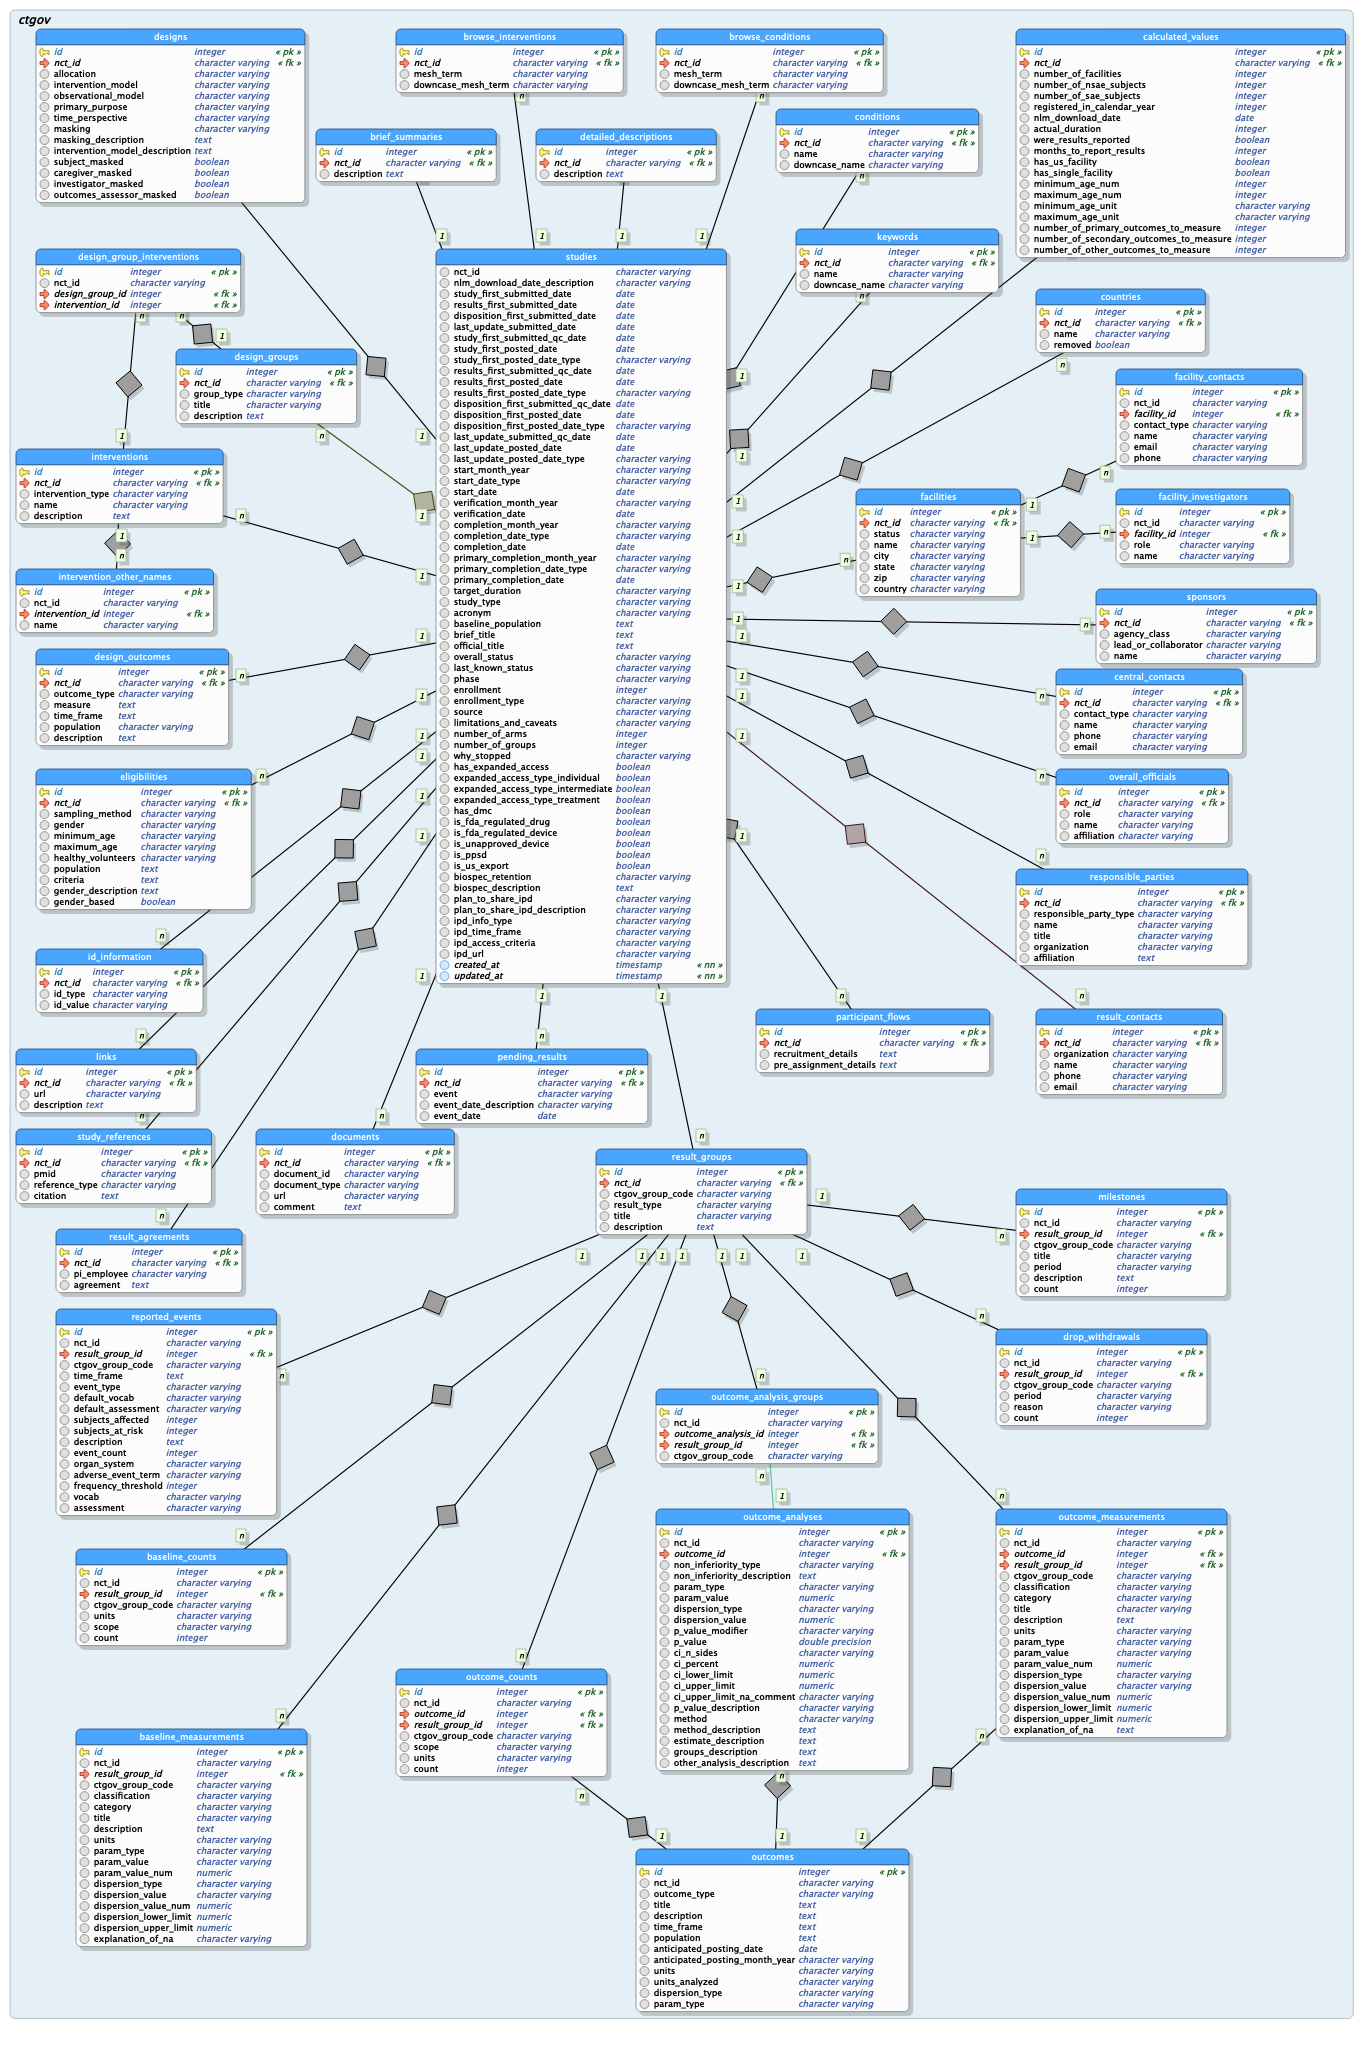
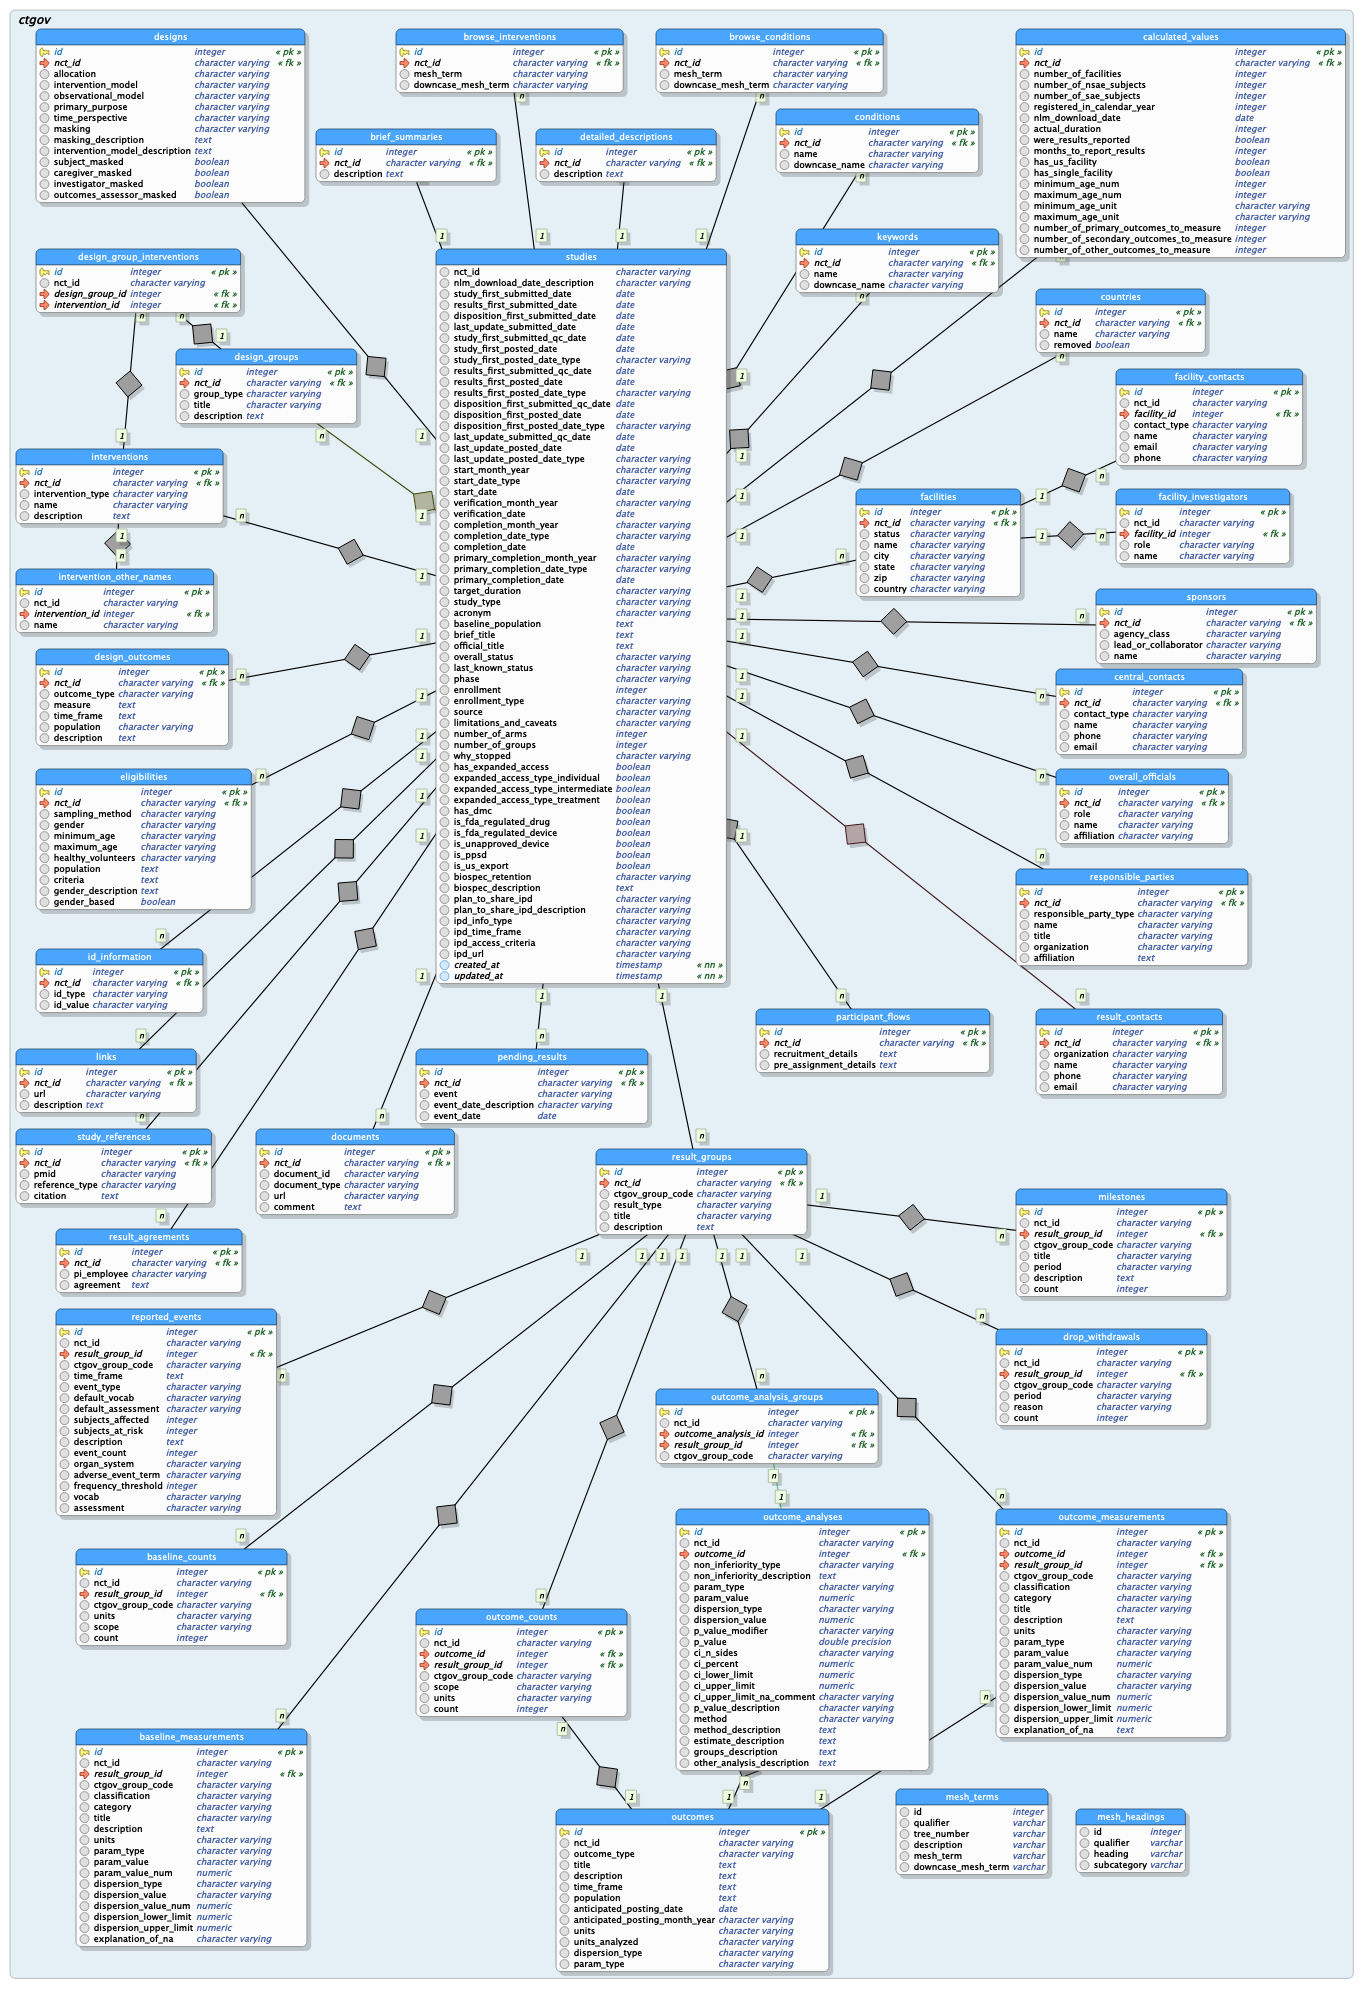
aact-831:  Present Projects Schema Diagrams

diff --git a/app/controllers/pages_controller.rb b/app/controllers/pages_controller.rb
@@ -16,6 +16,7 @@ class PagesController < ApplicationController
     fpm=Util::FilePresentationManager.new
     @support_schema_diagram=fpm.support_schema_diagram
     @admin_schema_diagram=fpm.admin_schema_diagram
+    @proj_schema_diagram=fpm.proj_schema_diagram
     @schema_diagram=fpm.schema_diagram
     @data_dictionary=fpm.data_dictionary
     @table_dictionary=fpm.table_dictionary
@@ -27,6 +28,7 @@ class PagesController < ApplicationController
     @process_flow_diagram=fpm.process_flow_diagram
     @support_schema_diagram=fpm.support_schema_diagram
     @admin_schema_diagram=fpm.admin_schema_diagram
+    @proj_schema_diagram=fpm.proj_schema_diagram
     @schema_diagram=fpm.schema_diagram
     @data_dictionary=fpm.data_dictionary
     @table_dictionary=fpm.table_dictionary
@@ -37,6 +39,7 @@ class PagesController < ApplicationController
     @process_flow_diagram=fpm.process_flow_diagram
     @support_schema_diagram=fpm.support_schema_diagram
     @admin_schema_diagram=fpm.admin_schema_diagram
+    @proj_schema_diagram=fpm.proj_schema_diagram
     @schema_diagram=fpm.schema_diagram
     @data_dictionary=fpm.data_dictionary
     @table_dictionary=fpm.table_dictionary
@@ -46,6 +49,7 @@ class PagesController < ApplicationController
     fpm=Util::FilePresentationManager.new
     @support_schema_diagram=fpm.support_schema_diagram
     @admin_schema_diagram=fpm.admin_schema_diagram
+    @proj_schema_diagram=fpm.proj_schema_diagram
     @schema_diagram=fpm.schema_diagram
     @data_dictionary=fpm.data_dictionary
     @table_dictionary=fpm.table_dictionary

diff --git a/app/models/util/file_manager.rb b/app/models/util/file_manager.rb
@@ -45,6 +45,10 @@ module Util
       "#{Rails.public_path}/static/documentation/aact_admin_schema.png"
     end
 
+    def proj_schema_diagram
+      "#{Rails.public_path}/static/documentation/aact_proj_schema.png"
+    end
+
     def schema_diagram
       "#{Rails.public_path}/static/documentation/aact_schema.png"
     end

diff --git a/app/models/util/file_presentation_manager.rb b/app/models/util/file_presentation_manager.rb
@@ -40,6 +40,10 @@ module Util
       "/static/documentation/aact_admin_schema.png"
     end
 
+    def proj_schema_diagram
+      "/static/documentation/aact_proj_schema.png"
+    end
+
     def schema_diagram
       "/static/documentation/aact_schema.png"
     end
